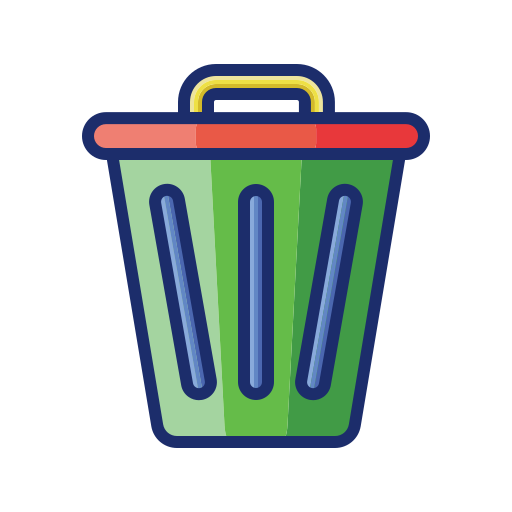
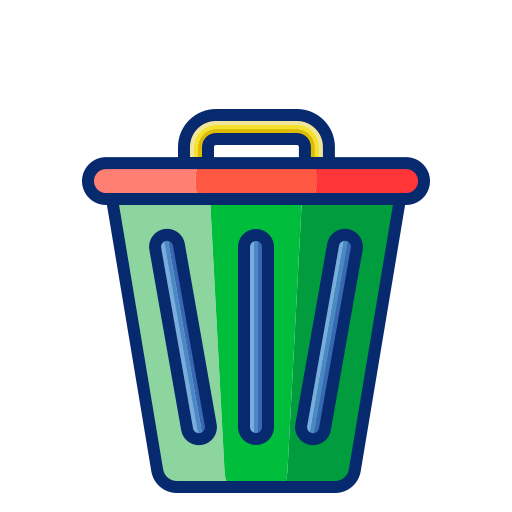
proyecto overlay

diff --git a/proyecto4/index.html b/proyecto4/index.html
@@ -28,16 +28,16 @@
             <nav style="top: 100px; left: 100px;">
                 <ul>
                     <li id="activar"></li>
-                    <li id="papelera"></li>
+                    <li id="papelera" class="open"></li>
                 </ul>
             </nav>
             <ol>
-                <li style="top: 100px; left: 400px; width: 300px;">Lorem ipsum dolor sit amet consectetur adipisicing elit. Quia ab ut ad illo placeat odit, deleniti consectetur facere a ipsa voluptatibus natus praesentium eligendi nostrum esse culpa. Eum, vero labore.</li>
-                <li style="top: 200px; left: 100px; width: 350px;" class="editable">
+                <li id="nota1" draggable="true" style="top: 100px; left: 400px; width: 300px;">Lorem ipsum dolor sit amet consectetur adipisicing elit. Quia ab ut ad illo placeat odit, deleniti consectetur facere a ipsa voluptatibus natus praesentium eligendi nostrum esse culpa. Eum, vero labore.</li>
+                <li id="nota2" draggable="true" style="top: 200px; left: 100px; width: 350px;" class="editable">
                     <textarea>Lorem ipsum dolor sit amet consectetur adipisicing elit. Excepturi reiciendis natus eius officia delectus nisi ex, consectetur incidunt perspiciatis labore? Perferendis minima soluta placeat! Sapiente impedit asperiores hic explicabo rerum?</textarea>
                 </li>
-                <li style="top: 300px; left: 300px; width: 200px;">Lorem ipsum dolor sit amet consectetur adipisicing elit. Quo harum dolor, ex obcaecati tenetur ab unde quod natus reprehenderit quam cumque vel, eveniet ullam optio culpa commodi adipisci similique! Totam.</li>
-                <li style="top: 500px; left: 50px; width: 400px;">Lorem ipsum dolor sit amet consectetur, adipisicing elit. At suscipit cumque quaerat, aliquam beatae aut reiciendis quae eaque officia, incidunt doloribus, alias quam excepturi accusamus. Laborum aperiam iusto sapiente asperiores.</li>
+                <li id="nota3" draggable="true" style="top: 300px; left: 300px; width: 200px;">Lorem ipsum dolor sit amet consectetur adipisicing elit. Quo harum dolor, ex obcaecati tenetur ab unde quod natus reprehenderit quam cumque vel, eveniet ullam optio culpa commodi adipisci similique! Totam.</li>
+                <li id="nota4" draggable="true" style="top: 500px; left: 50px; width: 400px;">Lorem ipsum dolor sit amet consectetur, adipisicing elit. At suscipit cumque quaerat, aliquam beatae aut reiciendis quae eaque officia, incidunt doloribus, alias quam excepturi accusamus. Laborum aperiam iusto sapiente asperiores.</li>
             </ol>
         </aside>
         <script>

diff --git a/proyecto4/style.css b/proyecto4/style.css
@@ -54,6 +54,10 @@
     background-image: url('papelera.png');
 }
 
+#papelera.open{
+    background-image: url('papelera_open.png') !important;
+}
+
 
 #notas ol {
     display: none;

diff --git a/proyecto4/readme.md b/proyecto4/readme.md
@@ -75,3 +75,6 @@ Función de poner listeners:
 - llamar a la función de poner listeners en un elemento:
   - nav(botones)
   - todas las notas
+
+
+TIRAR NOTAS A LA BASURA.
